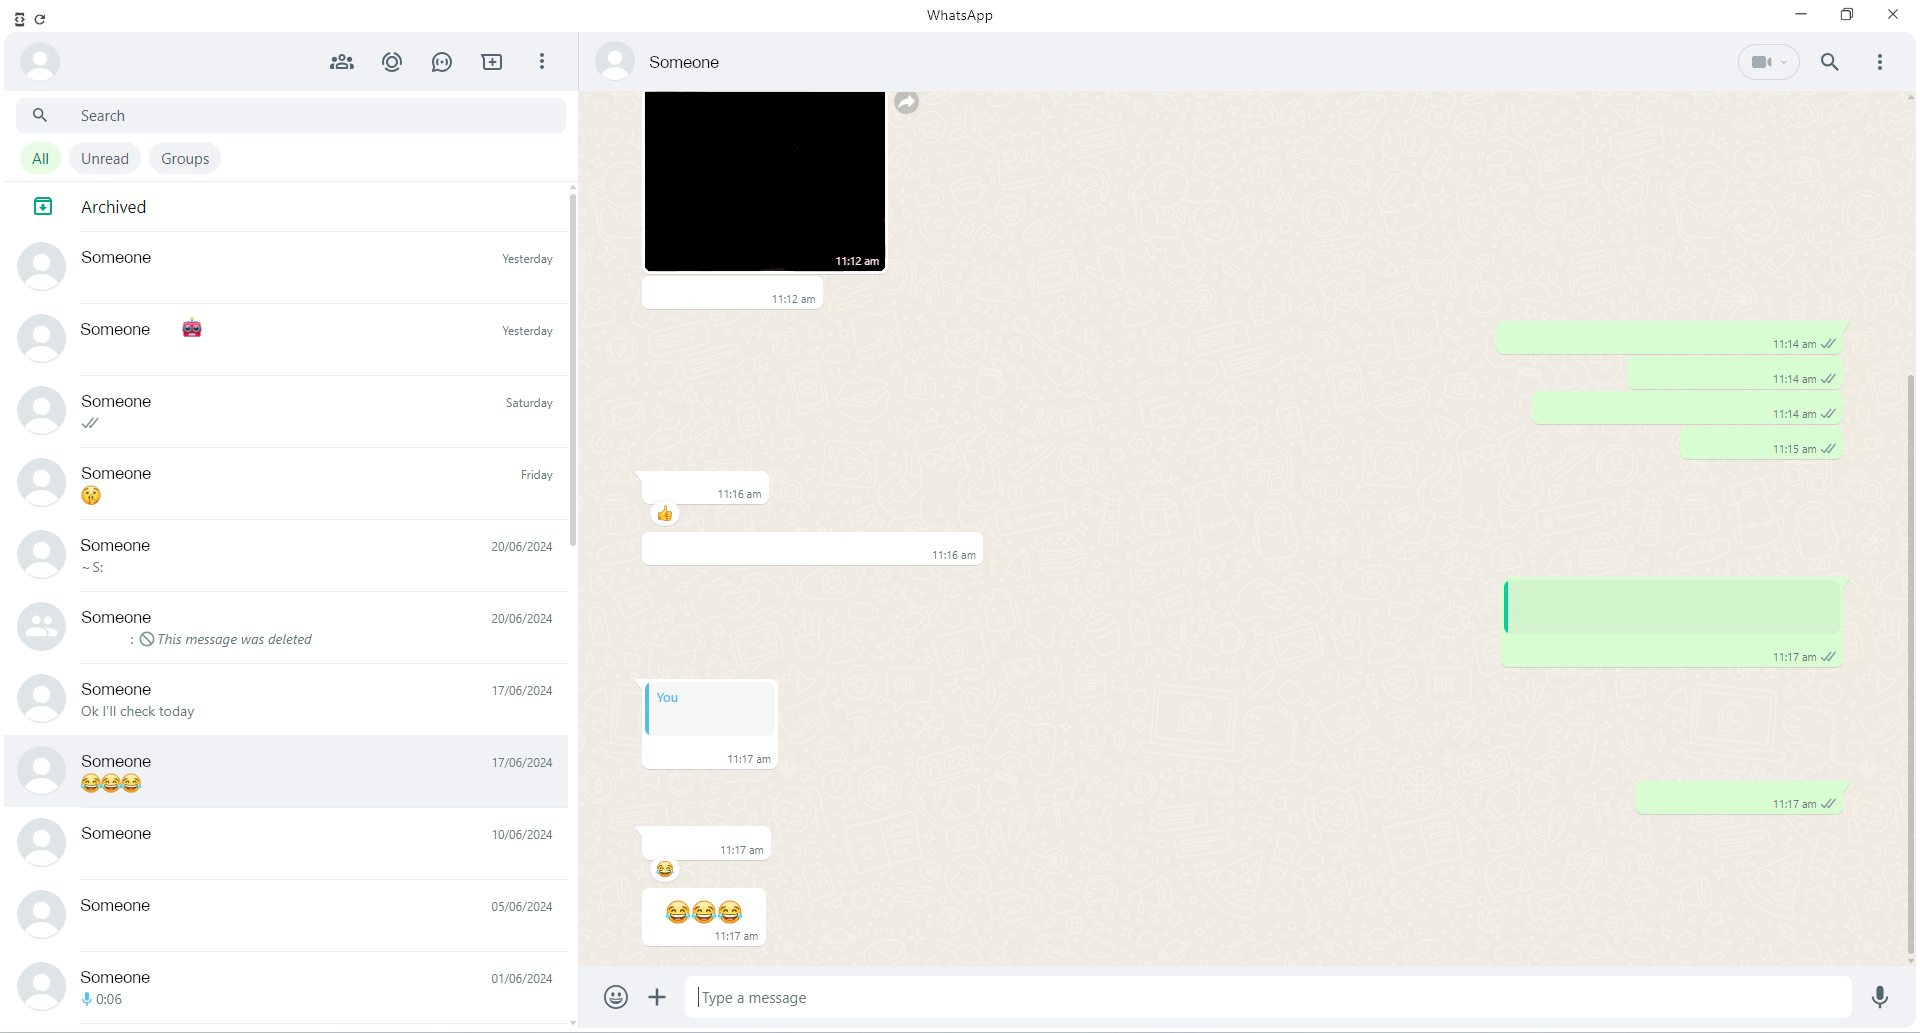
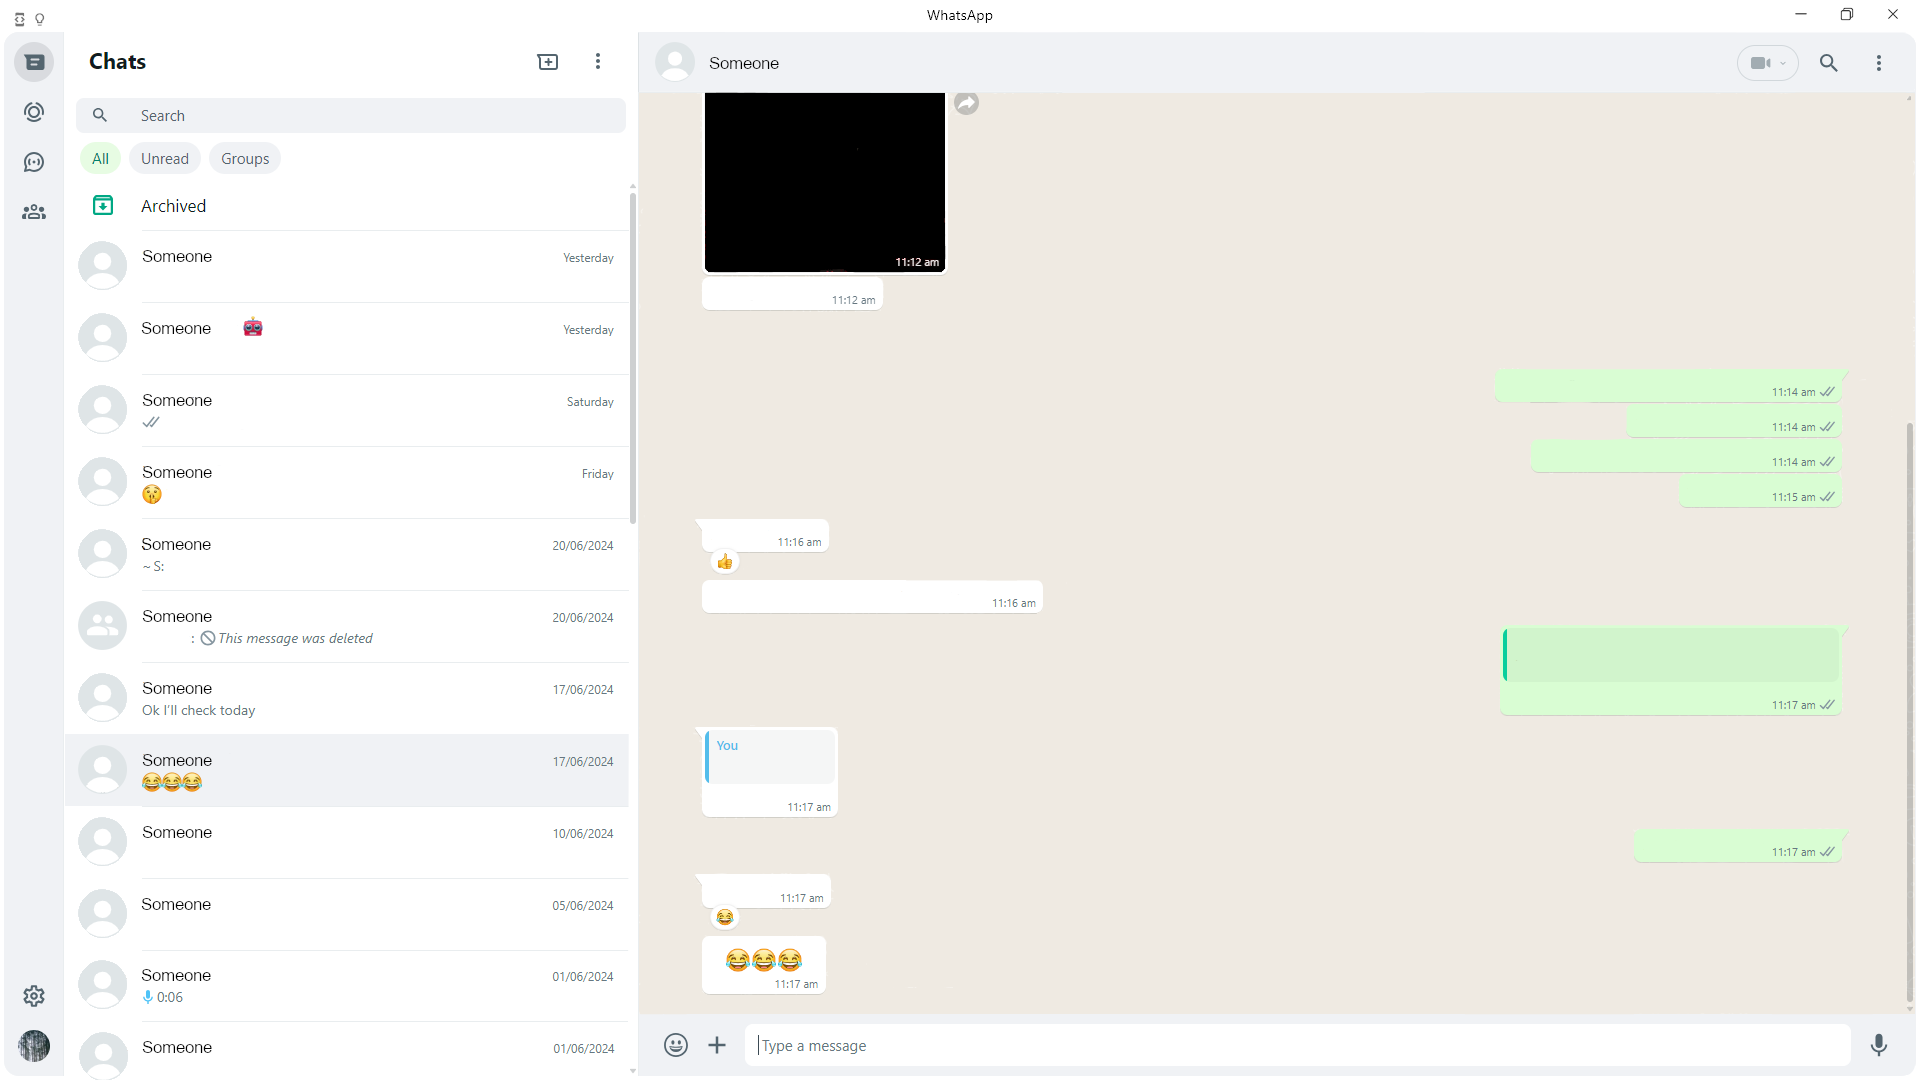
:memo: cleanup & added screenshot

diff --git a/WhatsApp/lib/main.dart b/WhatsApp/lib/main.dart
@@ -51,7 +51,6 @@ Future<void> runCustomJS() async {
         var ref = document.querySelector("script");
         ref.parentNode.insertBefore(style, ref);
         document.getElementsByTagName("body")[0].classList = [""];
-        console.log("ran");
       }
     """);
   } else {
@@ -87,7 +86,6 @@ Future<void> runCustomJS() async {
         var ref = document.querySelector("script");
         ref.parentNode.insertBefore(style, ref);
         document.getElementsByTagName("body")[0].classList = ["dark"];
-        console.log("ran");
       }
     """);
   }

diff --git a/README.md b/README.md
@@ -5,7 +5,9 @@ The [WebView2 Runtime](https://developer.microsoft.com/en-us/microsoft-edge/webv
 <hr>
 <br>
 
-![App Screenshot](https://raw.githubusercontent.com/Faeq-F/whatsappPortable/main/Screenshot.png)
+![App Screenshot in light mode](https://raw.githubusercontent.com/Faeq-F/whatsappPortable/main/Screenshot.png)
+
+![App Screenshot in dark mode](https://raw.githubusercontent.com/Faeq-F/whatsappPortable/main/ScreenshotDark.png)
 
 <br>
 <hr>
